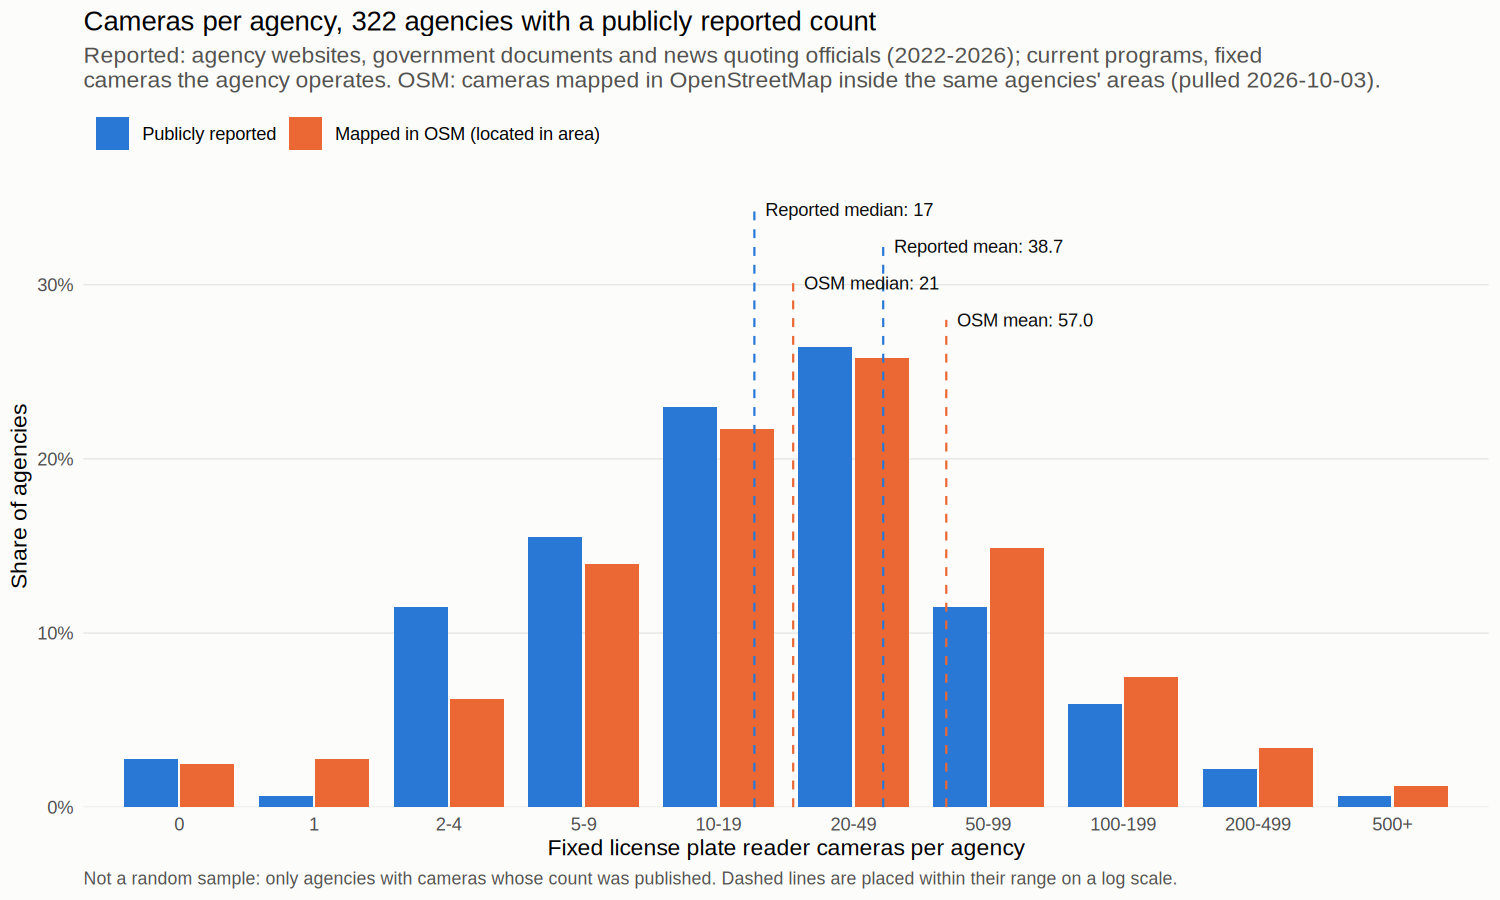
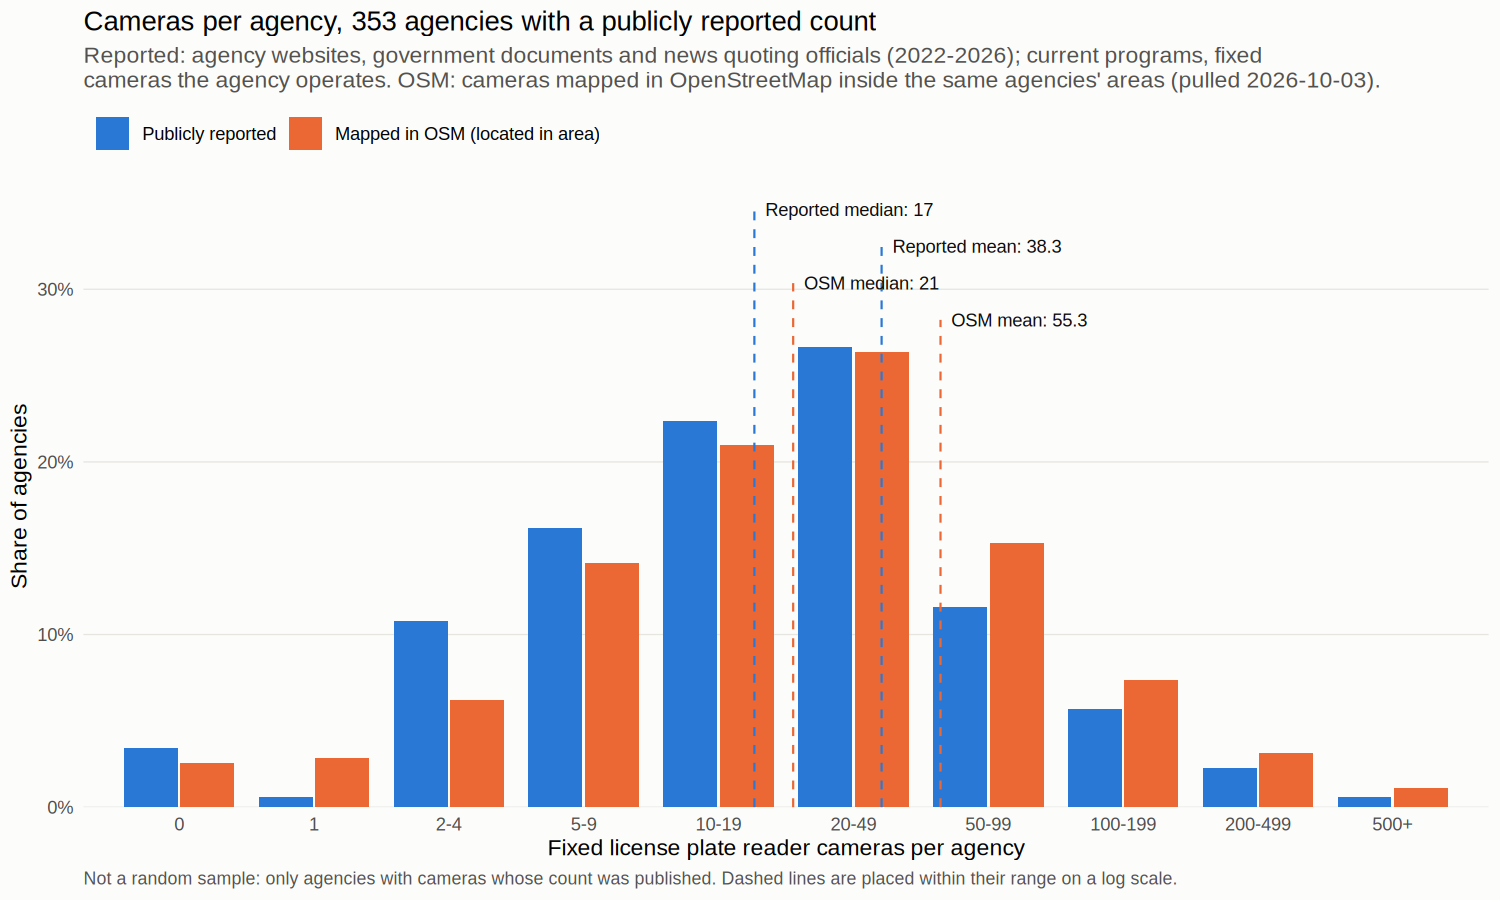
Final rerun from committed OSM snapshot (outputs reproduce); web validation now 648 rows, 353 core agencies
Claude-Session: https://claude.ai/code/session_012MUT65VuPnYomMW5XEe91P

diff --git a/output/summary.md b/output/summary.md
@@ -187,17 +187,17 @@ Collected from agency websites, government documents and news articles quoting o
 
 | measure | subset | n | r_log | median_ratio | within_2x | below_half | above_double |
 | --- | --- | --- | --- | --- | --- | --- | --- |
-| located | core: current, fixed, agency-operated | 322 | 0.79 | 1.13 | 0.76 | 0.07 | 0.17 |
-| attributed | core: current, fixed, agency-operated | 322 | 0.80 | 1.13 | 0.76 | 0.07 | 0.17 |
-| located | core, excluding agencies reporting zero | 313 | 0.85 | 1.13 | 0.76 | 0.07 | 0.17 |
-| located | fixed, source dated 2025-2026 | 300 | 0.79 | 1.13 | 0.75 | 0.08 | 0.17 |
-| located | municipal police | 263 | 0.79 | 1.11 | 0.79 | 0.07 | 0.14 |
-| located | sheriffs / county police |  59 | 0.82 | 1.40 | 0.63 | 0.07 | 0.30 |
-| located | figures incl. mobile/shared or unclear |  99 | 0.70 | 1.05 | 0.59 | 0.21 | 0.19 |
-| located | discontinued programs (last count) |  94 | 0.74 | 0.81 | 0.56 | 0.31 | 0.13 |
-| located | planned / contracted counts |  76 | 0.77 | 1.17 | 0.63 | 0.16 | 0.21 |
+| located | core: current, fixed, agency-operated | 353 | 0.80 | 1.13 | 0.76 | 0.07 | 0.16 |
+| attributed | core: current, fixed, agency-operated | 353 | 0.80 | 1.14 | 0.76 | 0.07 | 0.17 |
+| located | core, excluding agencies reporting zero | 341 | 0.85 | 1.13 | 0.76 | 0.07 | 0.16 |
+| located | fixed, source dated 2025-2026 | 329 | 0.79 | 1.13 | 0.76 | 0.08 | 0.17 |
+| located | municipal police | 287 | 0.80 | 1.12 | 0.79 | 0.07 | 0.14 |
+| located | sheriffs / county police |  66 | 0.79 | 1.35 | 0.63 | 0.08 | 0.28 |
+| located | figures incl. mobile/shared or unclear | 117 | 0.71 | 1.05 | 0.63 | 0.18 | 0.19 |
+| located | discontinued programs (last count) | 113 | 0.74 | 0.79 | 0.54 | 0.31 | 0.15 |
+| located | planned / contracted counts |  81 | 0.78 | 1.17 | 0.64 | 0.15 | 0.21 |
 
-Agencies that report owning **zero** fixed cameras (9 in the core set; e.g., Charlotte-Mecklenburg, Durham) often have dozens of mapped cameras in their area run by other parties (HOAs, businesses, neighboring agencies). The located measure cannot tell those apart, which is the largest source of disagreement.
+Agencies that report owning **zero** fixed cameras (12 in the core set; e.g., Charlotte-Mecklenburg, Durham) often have dozens of mapped cameras in their area run by other parties (HOAs, businesses, neighboring agencies). The located measure cannot tell those apart, which is the largest source of disagreement.
 
 ### Reported counts as an independent estimate of camera density
 
@@ -205,17 +205,17 @@ For the core agencies, reported counts and OSM give a similar per-capita picture
 
 | estimate | agencies | mean | median | p25 | p75 | p90 | max |
 | --- | --- | --- | --- | --- | --- | --- | --- |
-| reported count (web sources) | 322 | 38.7 | 17.0 | 7.0 | 37.8 | 86.8 | 553.0 |
-| OSM located, same agencies | 322 | 57.0 | 21.0 | 9.0 | 53.0 | 112.9 | 2,240.0 |
-| reported per 10,000 residents | 321 | 7.3 | 4.2 | 2.1 | 7.6 | 13.3 | 222.5 |
-| OSM located per 10,000 residents, same agencies | 321 | 7.0 | 4.9 | 2.7 | 8.4 | 14.0 | 73.0 |
+| reported count (web sources) | 353 | 38.3 | 17.0 | 7.0 | 37.0 | 85.0 | 553.0 |
+| OSM located, same agencies | 353 | 55.3 | 21.0 | 9.0 | 53.0 | 111.8 | 2,240.0 |
+| reported per 10,000 residents | 352 | 7.2 | 4.1 | 2.0 | 7.3 | 13.1 | 222.5 |
+| OSM located per 10,000 residents, same agencies | 352 | 6.9 | 4.7 | 2.6 | 8.1 | 13.5 | 73.9 |
 
 | size | agencies | median_reported | median_osm_located | median_reported_per10k | median_osm_per10k | median_ratio_osm_to_reported |
 | --- | --- | --- | --- | --- | --- | --- |
-| <10k |  40 | 7.00 | 6.00 | 14.34 | 11.36 | 0.85 |
-| 10k-50k | 135 | 11.00 | 14.00 | 4.87 | 5.26 | 1.00 |
-| 50k-250k | 111 | 30.00 | 41.00 | 3.38 | 3.98 | 1.27 |
-| 250k+ |  36 | 103.50 | 168.50 | 2.27 | 3.49 | 1.96 |
+| <10k |  45 |   7 |   6 | 12.79 | 11.29 | 0.85 |
+| 10k-50k | 144 |  11 |  13 | 4.75 | 5.25 | 1.00 |
+| 50k-250k | 123 |  29 |  39 | 3.09 | 4.17 | 1.25 |
+| 250k+ |  41 | 100 | 146 | 2.25 | 3.30 | 1.92 |
 
 ## 6. Limits
 

diff --git a/README.md b/README.md
@@ -115,7 +115,7 @@ for s in 03_agencies 04_method_a 04b_operator_class 05_method_b 06_combine_outpu
 done
 ```
 `R/10_checks.R` must report all checks passed. With the 2026-10-03 snapshot the headline numbers should
-reproduce exactly (143,157 cameras; 136,080 located; 7,944 agencies with >=1 located camera).
+reproduce exactly (143,157 cameras; 136,080 located; 7,944 agencies with >=1 located camera); this was confirmed by a full rerun from the snapshot on 2026-10-03.
 
 **4. Adding more reported counts** (`data/validation_web/`)
 - One CSV per region and round, named `<northeast|midwest|south|west>[_N].csv` (the validation script reads only these names), header:
@@ -124,7 +124,7 @@ reproduce exactly (143,157 cameras; 136,080 located; 7,944 agencies with >=1 loc
 - `transparency.flocksafety.com` (Cloudflare) and `web.archive.org` are blocked; do not try to get around them.
 - Put program status (removed / paused / planned / approved) in `notes`; `R/07b_validate_web.R` flags rows from keywords there, and `status_overrides.csv` holds reviewed corrections (`program_status`: current / discontinued / planned_or_contracted / changed / not_alpr).
 - Web searches are capped per session (`CLAUDE_CODE_MAX_WEB_SEARCHES_PER_SESSION`, default 200). Raise it in the environment settings before starting a session that will collect more. Give each parallel agent its own scratch folder.
-- Still thin: AZ, UT, NV, NM, ID, MT, HI, AK, LA, DE, PA, CT, RI; several big cities (Memphis, Chicago, NYPD, Philadelphia, Pittsburgh, Omaha, Kansas City) have no published count.
+- Still thin (0-2 rows): MT, AK, ID, NM, HI, LA, DE, MS, PA, RI, VT, WV; several big cities (Memphis, Chicago, NYPD, Philadelphia, Pittsburgh, Omaha, Kansas City, San Antonio) have no published fixed-camera count.
 - `mn_bca_fixed_lpr_locations.csv` (Minnesota BCA register of fixed LPR locations) is collected but not yet used; it lists locations, not camera counts.
 
 **5. Open items**
